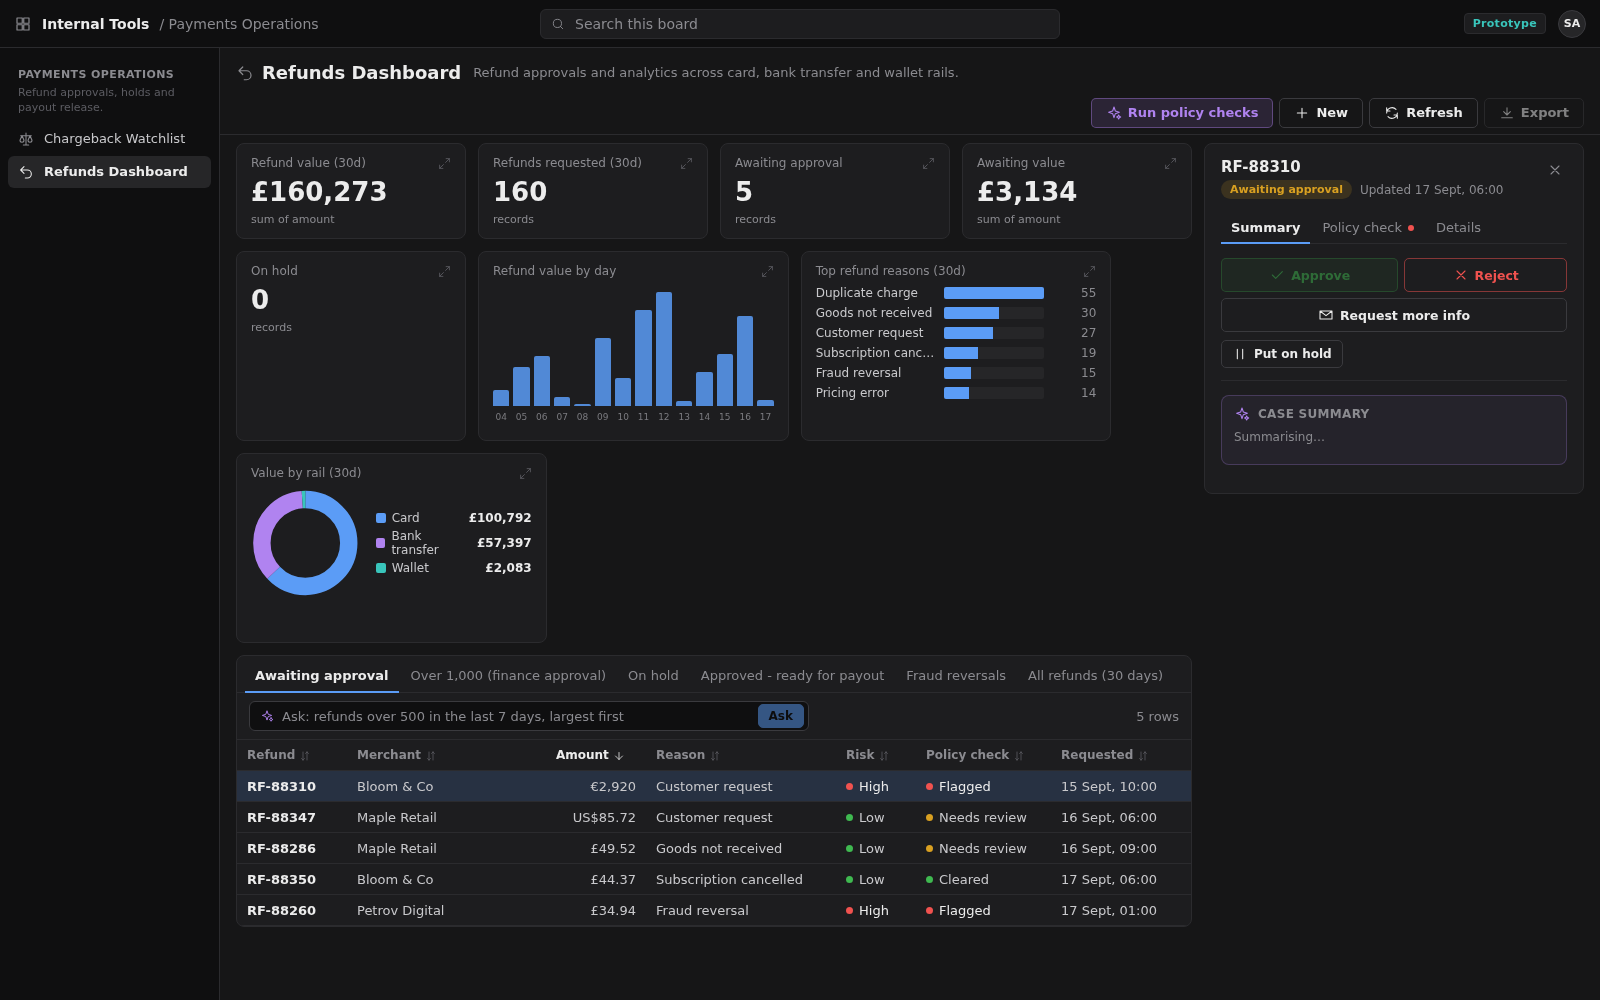
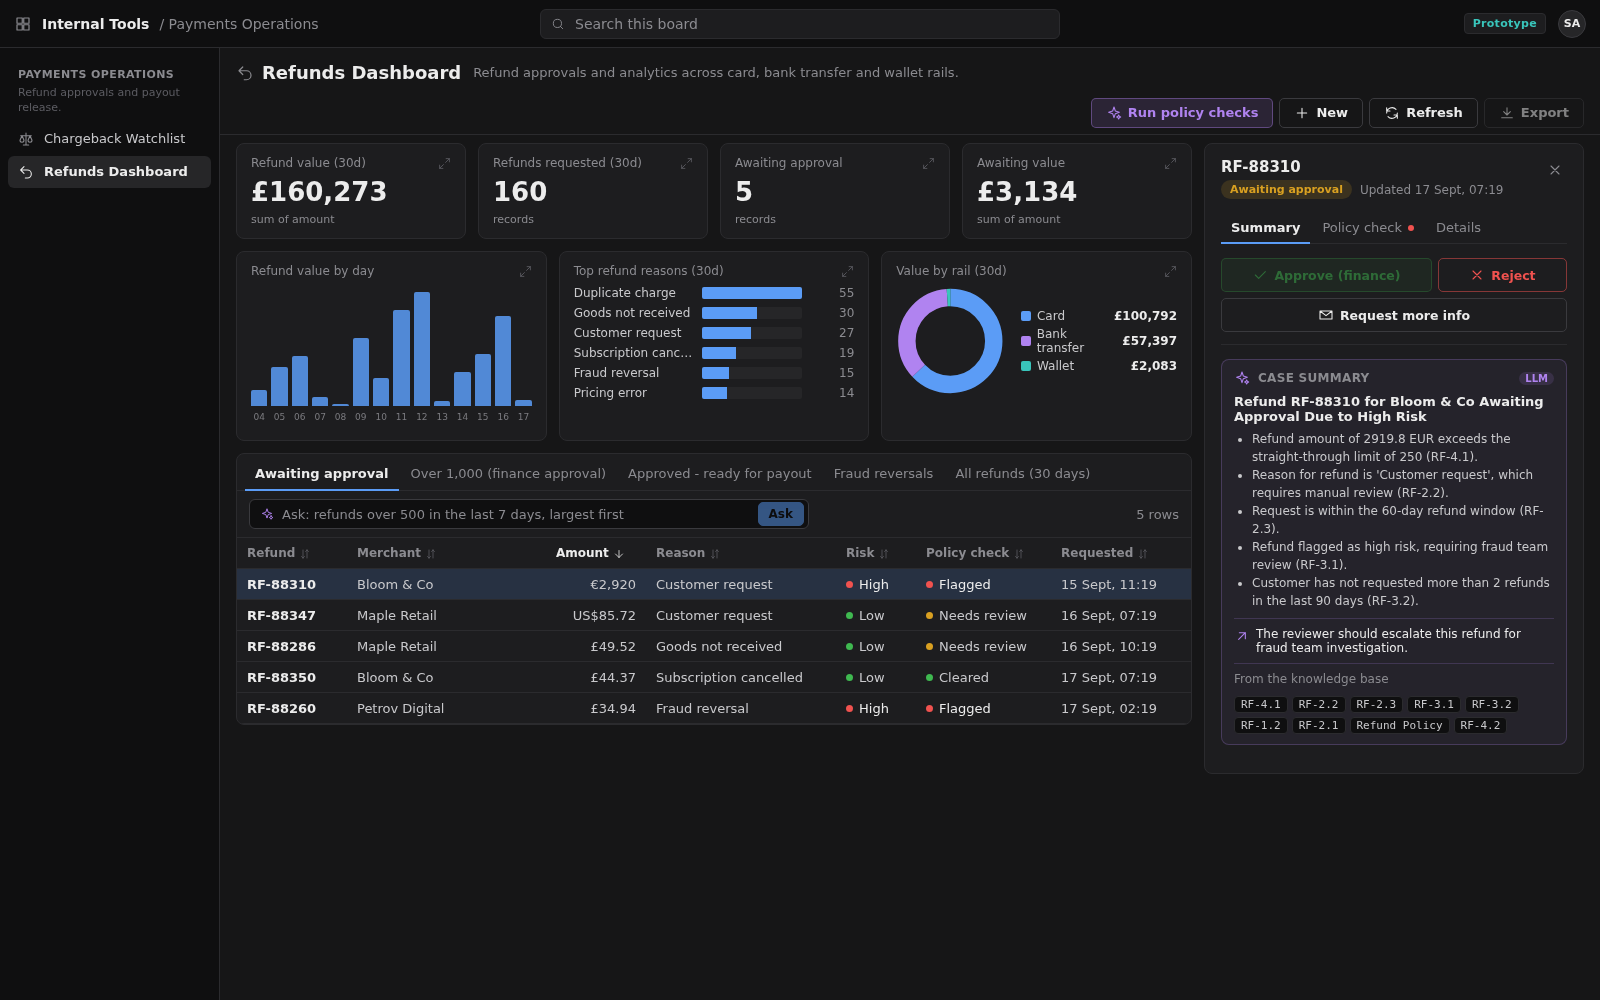
Engineers toggle UAT/PROD directly (FF-2.1 flagged, not blocked); drop refund hold; decision slots hide when state does not apply

diff --git a/web/src/RecordPane.tsx b/web/src/RecordPane.tsx
@@ -1,6 +1,6 @@
 import { useEffect, useState } from 'react'
 import type { ActionSpec, Answer, AuditEntry, FieldSpec, Rec, Review, Source, Summary, ToolSpec } from './api'
-import { api, fmt } from './api'
+import { api, fmt, stateAllows } from './api'
 import { pillColour } from './Cell'
 import { Icon, actionIcon } from './Icon'
 import { Check } from './PolicyReport'
@@ -110,19 +110,50 @@ const DECISIONS: { kind: NonNullable<ActionSpec['decision']>; cls: string }[] = 
   { kind: 'approve', cls: 'approve' }, { kind: 'reject', cls: 'danger' }, { kind: 'info', cls: 'secondary' },
 ]
 
-function Decisions({ actions, record, actionEnabled, onAction }: { actions: ActionSpec[]; record: Rec; actionEnabled: (a: ActionSpec, r: Rec) => boolean; onAction: (a: ActionSpec, r: Rec) => void }) {
+// A boolean field becomes a switch when some action flips it on and/or off (e.g. uat/prod on flags).
+// Which action runs is looked up from the actions' `set`, so the guards, confirm and comment rules still apply.
+function Switches({ tool, actions, record, actionEnabled, onAction }: { tool: ToolSpec; actions: ActionSpec[]; record: Rec; actionEnabled: (a: ActionSpec, r: Rec) => boolean; onAction: (a: ActionSpec, r: Rec) => void }) {
+  const rows = tool.fields.filter(f => f.type === 'boolean' && !f.computed).map(f => {
+    const on = Boolean(record[f.name])
+    const flip = actions.filter(a => !a.decision && typeof a.set[f.name] === 'boolean' && a.set[f.name] === !on)
+    if (!actions.some(a => typeof a.set[f.name] === 'boolean')) return null
+    const a = flip.find(x => actionEnabled(x, record)) ?? flip.find(x => x.allowed) ?? flip[0] ?? null
+    const enabled = a !== null && actionEnabled(a, record)
+    const why = !a ? `No action turns ${f.label} ${on ? 'off' : 'on'}` : enabled ? a.label : !a.allowed ? `${a.label}: requires role ${a.roles.join(' / ')}` : 'Not available in the current state'
+    return { f, on, a, enabled, why }
+  }).filter((s): s is NonNullable<typeof s> => s !== null)
+  if (!rows.length) return null
+  return (
+    <div className="switches">
+      {rows.map(s => (
+        <button key={s.f.name} className="switch" disabled={!s.enabled} title={s.why} onClick={() => s.a && onAction(s.a, record)}>
+          <span className={`tgl ${s.on ? 'on' : ''}`} />
+          <span>{s.f.label}</span>
+          <span className={`sub ${s.on ? 'green' : ''}`}>{s.on ? 'On' : 'Off'}</span>
+        </button>
+      ))}
+    </div>
+  )
+}
+
+function Decisions({ tool, actions, record, actionEnabled, onAction }: { tool: ToolSpec; actions: ActionSpec[]; record: Rec; actionEnabled: (a: ActionSpec, r: Rec) => boolean; onAction: (a: ActionSpec, r: Rec) => void }) {
+  // A slot shows when the record is in a state where that decision applies; it is greyed only when the
+  // viewer lacks the role, so "nothing to approve here" and "you can't approve this" look different.
   const slots = DECISIONS.map(d => {
-    const all = actions.filter(a => a.decision === d.kind)
+    const all = actions.filter(a => a.decision === d.kind && stateAllows(a, record))
     if (!all.length) return null
-    const a = all.find(x => actionEnabled(x, record)) ?? all.find(x => x.allowed) ?? all[0]
+    const a = all.find(x => x.allowed) ?? all[0]
     const enabled = actionEnabled(a, record)
-    const why = enabled ? '' : !a.allowed ? `Requires role: ${a.roles.join(' / ')}` : 'Not available in the current state'
+    const why = enabled ? '' : `Requires role: ${a.roles.join(' / ')}`
     return { ...d, a, enabled, why }
   }).filter((s): s is NonNullable<typeof s> => s !== null)
-  const others = actions.filter(a => !a.decision && a.allowed && actionEnabled(a, record))
-  if (!slots.length && !others.length) return <div className="sub">No actions available in the current state.</div>
+  const switched = new Set(actions.flatMap(a => Object.entries(a.set).filter(([k, v]) => typeof v === 'boolean' && tool.fields.some(f => f.name === k && f.type === 'boolean')).map(([k]) => k)))
+  const others = actions.filter(a => !a.decision && a.allowed && actionEnabled(a, record) && !Object.keys(a.set).some(k => switched.has(k)))
+  const switches = <Switches tool={tool} actions={actions} record={record} actionEnabled={actionEnabled} onAction={onAction} />
+  if (!slots.length && !others.length && !switched.size) return <div className="sub">No actions available in the current state.</div>
   return (
     <div className="decisions">
+      {switches}
       {slots.length > 0 && (
         <div className="decision-row">
           {slots.map(s => (
@@ -231,7 +262,7 @@ export function RecordPane({ tool, record, actions, actionEnabled, onAction, onC
       )}
 
       {record && tab === 'summary' && actions.length > 0 && (
-        <Decisions actions={actions} record={record} actionEnabled={actionEnabled} onAction={onAction} />
+        <Decisions tool={tool} actions={actions} record={record} actionEnabled={actionEnabled} onAction={onAction} />
       )}
 
       {record && tab === 'summary' && review?.ai_decision && (

diff --git a/web/src/App.tsx b/web/src/App.tsx
@@ -1,6 +1,6 @@
 import { useCallback, useEffect, useMemo, useRef, useState } from 'react'
 import type { AIStatus, ActionSpec, AutoReviewResult, FieldSpec, IntegrationEntry, Me, QueryResult, Rec, TileSpec, ToolSpec, User } from './api'
-import { ApiError, api, fmt, getUser, signIn, signOut } from './api'
+import { ApiError, api, fmt, getUser, matches, signIn, signOut, stateAllows } from './api'
 import { Cell, isNumeric } from './Cell'
 import { Dashboard } from './Dashboard'
 import { Icon, actionIcon } from './Icon'
@@ -12,25 +12,8 @@ type Sort = { field: string; dir: 'asc' | 'desc' } | null
 
 const APP_BLURB: Record<string, string> = {
   'Compliance Operations': 'KYC review, sanctions screening and onboarding decisions.',
-  'Payments Operations': 'Refund approvals, holds and payout release.',
-  'Release Control': 'Feature-flag changes gated by change requests.',
-}
-
-function matches(cond: unknown, v: unknown): boolean {
-  if (Array.isArray(cond)) return cond.includes(v)
-  if (cond && typeof cond === 'object') {
-    return Object.entries(cond as Record<string, unknown>).every(([op, x]) => {
-      if (typeof x === 'string' && x.startsWith('now')) {
-        const m = /^now([+-]\d+)([hdm])$/.exec(x)
-        const ms = m ? Number(m[1]) * { h: 36e5, d: 864e5, m: 6e4 }[m[2] as 'h' | 'd' | 'm'] : 0
-        const t = Date.now() + ms, tv = new Date(String(v)).getTime()
-        return op === 'lt' ? tv < t : op === 'lte' ? tv <= t : op === 'gt' ? tv > t : op === 'gte' ? tv >= t : op === 'ne' ? tv !== t : tv === t
-      }
-      const n = Number(v), m = Number(x)
-      return op === 'lt' ? n < m : op === 'lte' ? n <= m : op === 'gt' ? n > m : op === 'gte' ? n >= m : op === 'ne' ? v !== x : op === 'contains' ? String(v).includes(String(x)) : v === x
-    })
-  }
-  return typeof cond === 'boolean' ? Boolean(v) === cond : v === cond
+  'Payments Operations': 'Refund approvals and payout release.',
+  'Release Control': 'Feature-flag toggles, audited against change requests.',
 }
 
 function compare(f: FieldSpec | undefined, a: unknown, b: unknown): number {
@@ -168,8 +151,7 @@ export default function App() {
     })
   }
 
-  const actionEnabled = useCallback((a: ActionSpec, r: Rec) =>
-    a.allowed && Object.entries(a.only_when).every(([k, cond]) => matches(cond, r[k])), [])
+  const actionEnabled = useCallback((a: ActionSpec, r: Rec) => a.allowed && stateAllows(a, r), [])
 
   function startAction(a: ActionSpec, r: Rec) {
     if (a.requires_comment || a.confirm) setPending({ action: a, record: r, comment: '' })

diff --git a/web/src/api.ts b/web/src/api.ts
@@ -12,6 +12,27 @@ export interface ActionSpec {
   requires_comment: boolean; confirm: string | null; webhook: string | null; destructive: boolean; icon: string | null
   decision: 'approve' | 'reject' | 'info' | null; allowed: boolean
 }
+
+// Client-side mirror of the server's filter evaluation, used for view membership and action guards.
+export function matches(cond: unknown, v: unknown): boolean {
+  if (Array.isArray(cond)) return cond.includes(v)
+  if (cond && typeof cond === 'object') {
+    return Object.entries(cond as Record<string, unknown>).every(([op, x]) => {
+      if (typeof x === 'string' && x.startsWith('now')) {
+        const m = /^now([+-]\d+)([hdm])$/.exec(x)
+        const ms = m ? Number(m[1]) * { h: 36e5, d: 864e5, m: 6e4 }[m[2] as 'h' | 'd' | 'm'] : 0
+        const t = Date.now() + ms, tv = new Date(String(v)).getTime()
+        return op === 'lt' ? tv < t : op === 'lte' ? tv <= t : op === 'gt' ? tv > t : op === 'gte' ? tv >= t : op === 'ne' ? tv !== t : tv === t
+      }
+      const n = Number(v), m = Number(x)
+      return op === 'lt' ? n < m : op === 'lte' ? n <= m : op === 'gt' ? n > m : op === 'gte' ? n >= m : op === 'ne' ? v !== x : op === 'contains' ? String(v).includes(String(x)) : v === x
+    })
+  }
+  return typeof cond === 'boolean' ? Boolean(v) === cond : v === cond
+}
+
+/** The record is in a state where this action applies (ignores the caller's role). */
+export const stateAllows = (a: ActionSpec, r: Rec) => Object.entries(a.only_when).every(([k, cond]) => matches(cond, r[k]))
 export interface CheckSpec { id: string; clause: string; title: string; on_fail: 'flag' | 'review' }
 export interface AutoReviewSpec { policy: string; scope: Filter; clear_action: string | null; flag_action: string | null; actor: string }
 export interface TileSpec {

diff --git a/web/src/index.css b/web/src/index.css
@@ -199,6 +199,12 @@ td .link { color: var(--text); font-weight: 600; }
 .pane-tabs .view { padding: 7px 10px; display: inline-flex; align-items: center; gap: 6px; }
 .pane-tabs .dotted .dot { width: 6px; height: 6px; }
 .decisions { padding-bottom: 12px; border-bottom: 1px solid var(--line); margin-bottom: 14px; }
+.switches { display: flex; flex-wrap: wrap; gap: 6px; margin-bottom: 10px; }
+.switch { flex: 1 1 auto; display: inline-flex; align-items: center; gap: 8px; padding: 7px 10px; font: inherit; font-size: 12.5px; color: var(--text); background: var(--bg-3); border: 1px solid var(--line); border-radius: 6px; cursor: pointer; }
+.switch:hover:not(:disabled) { border-color: var(--line-strong); }
+.switch:disabled { cursor: not-allowed; opacity: .55; }
+.switch .sub { margin-left: auto; }
+.switch .sub.green { color: var(--green); }
 .decision-row { display: flex; flex-wrap: wrap; gap: 6px; }
 .decision-row .btn { flex: 1 1 auto; justify-content: center; padding: 8px 8px; font-size: 12.5px; }
 .btn.approve { background: rgba(63,185,80,.14); color: var(--green); border-color: rgba(63,185,80,.5); }

diff --git a/tests/test_platform.py b/tests/test_platform.py
@@ -158,15 +158,21 @@ def test_refund_amount_threshold_routes_to_finance(client):
 def test_webhook_action_logs_integration(client):
     flag = next(r for r in client.get("/api/tools/flags/records?view=all", headers=h("lin")).json() if r["cr_status"] == "None" and not r["prod"])
     rid = flag["id"]
-    # engineer: cannot enable PROD without an approved CR, can request one (webhook -> change management)
-    assert client.post("/api/tools/flags/actions/enable_prod", json={"record_id": rid}, headers=h("lin")).status_code == 403
-    assert client.post("/api/tools/flags/actions/request_release", json={"record_id": rid, "comment": "ship it"}, headers=h("lin")).json()["cr_status"] == "Pending"
-    # release manager: approve CR, then enable
-    assert client.post("/api/tools/flags/actions/enable_prod", json={"record_id": rid}, headers=h("amara")).status_code == 400
-    assert client.post("/api/tools/flags/actions/approve_cr", json={"record_id": rid}, headers=h("amara")).json()["cr_status"] == "Approved"
-    assert client.post("/api/tools/flags/actions/enable_prod", json={"record_id": rid}, headers=h("amara")).json()["prod"] == 1
-    log = client.get("/api/tools/flags/integrations", headers=h("amara")).json()
+    # engineer toggles PROD directly (webhook -> flag store); FF-2.1 is enforced by the policy check, not the toggle
+    assert client.post("/api/tools/flags/actions/enable_prod", json={"record_id": rid}, headers=h("lin")).json()["prod"] == 1
+    log = client.get("/api/tools/flags/integrations", headers=h("lin")).json()
     assert log[0]["webhook"].endswith("/flag-store/sync") and log[0]["payload"]["title"] == flag["key"]
+    review = client.get(f"/api/tools/flags/records/{rid}/review", headers=h("lin")).json()
+    assert review["verdict"] == "Flagged" and any(c["clause"] == "FF-2.1" and not c["passed"] for c in review["checks"])
+    # CR approval stays a release-manager decision; engineer cannot approve their own
+    assert client.post("/api/tools/flags/actions/request_release", json={"record_id": rid, "comment": "ship it"}, headers=h("lin")).json()["cr_status"] == "Pending"
+    assert client.post("/api/tools/flags/actions/approve_cr", json={"record_id": rid}, headers=h("lin")).status_code == 403
+    assert client.post("/api/tools/flags/actions/approve_cr", json={"record_id": rid}, headers=h("amara")).json()["cr_status"] == "Approved"
+    review = client.get(f"/api/tools/flags/records/{rid}/review", headers=h("lin")).json()
+    assert all(c["passed"] for c in review["checks"] if c["clause"] == "FF-2.1")
+    # kill switch is open to engineers too, but needs a comment
+    assert client.post("/api/tools/flags/actions/kill_switch", json={"record_id": rid}, headers=h("lin")).status_code == 400
+    assert client.post("/api/tools/flags/actions/kill_switch", json={"record_id": rid, "comment": "rollback"}, headers=h("lin")).json()["prod"] == 0
 
 
 def test_webhook_payloads_are_signed_with_env_secret_only(client, monkeypatch):
@@ -205,14 +211,15 @@ def test_create_validates_choices_and_required(client):
     assert r.status_code == 201 and r.json()["status"] == "Awaiting approval" and r.json()["currency"] == "GBP"
 
 
-def test_refund_hold_and_resume_cycle(client):
+def test_refund_decisions_are_approve_reject_or_request_info(client):
+    tool = client.get("/api/tools/refunds", headers=h("sofia")).json()
+    assert {a["id"] for a in tool["actions"]}.isdisjoint({"hold", "resume"})
+    assert {a["decision"] for a in tool["actions"] if a["decision"]} == {"approve", "reject", "info"}
     row = next(r for r in client.get("/api/tools/refunds/records?view=awaiting", headers=h("sofia")).json() if r["amount"] < 1000)
     rid = row["id"]
-    assert client.post("/api/tools/refunds/actions/hold", json={"record_id": rid}, headers=h("sofia")).status_code == 400  # comment required
-    assert client.post("/api/tools/refunds/actions/hold", json={"record_id": rid, "comment": "awaiting merchant evidence"}, headers=h("sofia")).json()["status"] == "On hold"
-    assert client.post("/api/tools/refunds/actions/approve", json={"record_id": rid}, headers=h("sofia")).status_code == 400
-    assert rid in {r["id"] for r in client.get("/api/tools/refunds/records?view=hold", headers=h("sofia")).json()}
-    assert client.post("/api/tools/refunds/actions/resume", json={"record_id": rid}, headers=h("sofia")).json()["status"] == "Awaiting approval"
+    assert client.post("/api/tools/refunds/actions/request_info", json={"record_id": rid}, headers=h("sofia")).json()["status"] == "Awaiting approval"
+    assert client.post("/api/tools/refunds/actions/reject", json={"record_id": rid}, headers=h("sofia")).status_code == 400  # comment required
+    assert client.post("/api/tools/refunds/actions/reject", json={"record_id": rid, "comment": "no evidence"}, headers=h("sofia")).json()["status"] == "Rejected"
 
 
 # ---- knowledge base + policy checks -------------------------------------------------------------

diff --git a/README.md b/README.md
@@ -149,9 +149,11 @@ Secrets store; nothing in the repo ever holds a value.
 
 **Working a queue fast:** rows show only what you need to triage; open a record for the full
 detail in a three-tab pane: **Summary** (AI case summary + Approve / Reject / Request more info,
-plus any secondary actions such as hold or kill switch), **Policy check** (the clause checks and
-the Ask-the-policy box) and **Details** (every field, edit, audit trail). Which action fills each
-decision slot comes from `decision: approve|reject|info` on the tool's YAML actions. ↑/↓ move
+environment switches on boolean fields, plus any secondary actions), **Policy check** (the clause
+checks and the Ask-the-policy box) and **Details** (every field, edit, audit trail). Which action
+fills each decision slot comes from `decision: approve|reject|info` on the tool's YAML actions; a
+boolean field becomes a switch when an action `set`s it (flags: UAT / PROD). Decision buttons only
+show when the record is in a state where they apply, and grey out only for a missing role. ↑/↓ move
 through the queue, Enter opens the record, Esc closes it. Acting on an open record advances to
 the next one in the queue.
 
@@ -161,10 +163,10 @@ Sign in as a demo identity — each sees only the boards its roles grant:
 |---|---|---|---|
 | Priya | analyst | Compliance Ops | ID document / DOB masked; escalate / request docs; cannot approve or export |
 | Marcus | compliance_lead, analyst | Compliance Ops | sees masked columns, approve / reject (comment), export, run policy review |
-| Sofia | payments_ops | Payments Ops | refunds < 1,000; bank account masked; hold / approve small |
+| Sofia | payments_ops | Payments Ops | refunds < 1,000; bank account masked; approve small / request info |
 | Dan | finance, payments_ops | Payments Ops | approves > 1,000, sends to payout (signed webhook), exports |
-| Lin | engineer | Release Control | DEV / UAT toggles, *requests* a PROD release |
-| Amara | release_manager, engineer | Release Control | approves CR, flips PROD, kill switch |
+| Lin | engineer | Release Control | UAT / PROD switches and kill switch; PROD without an approved CR is *flagged* (FF-2.1), not blocked |
+| Amara | release_manager, engineer | Release Control | approves / rejects change requests |
 | External Auditor | readonly | Compliance + Payments | sees everything, changes nothing, sensitive columns masked |
 
 `Devin AI` is a service identity: it appears in audit history as the actor of automated
